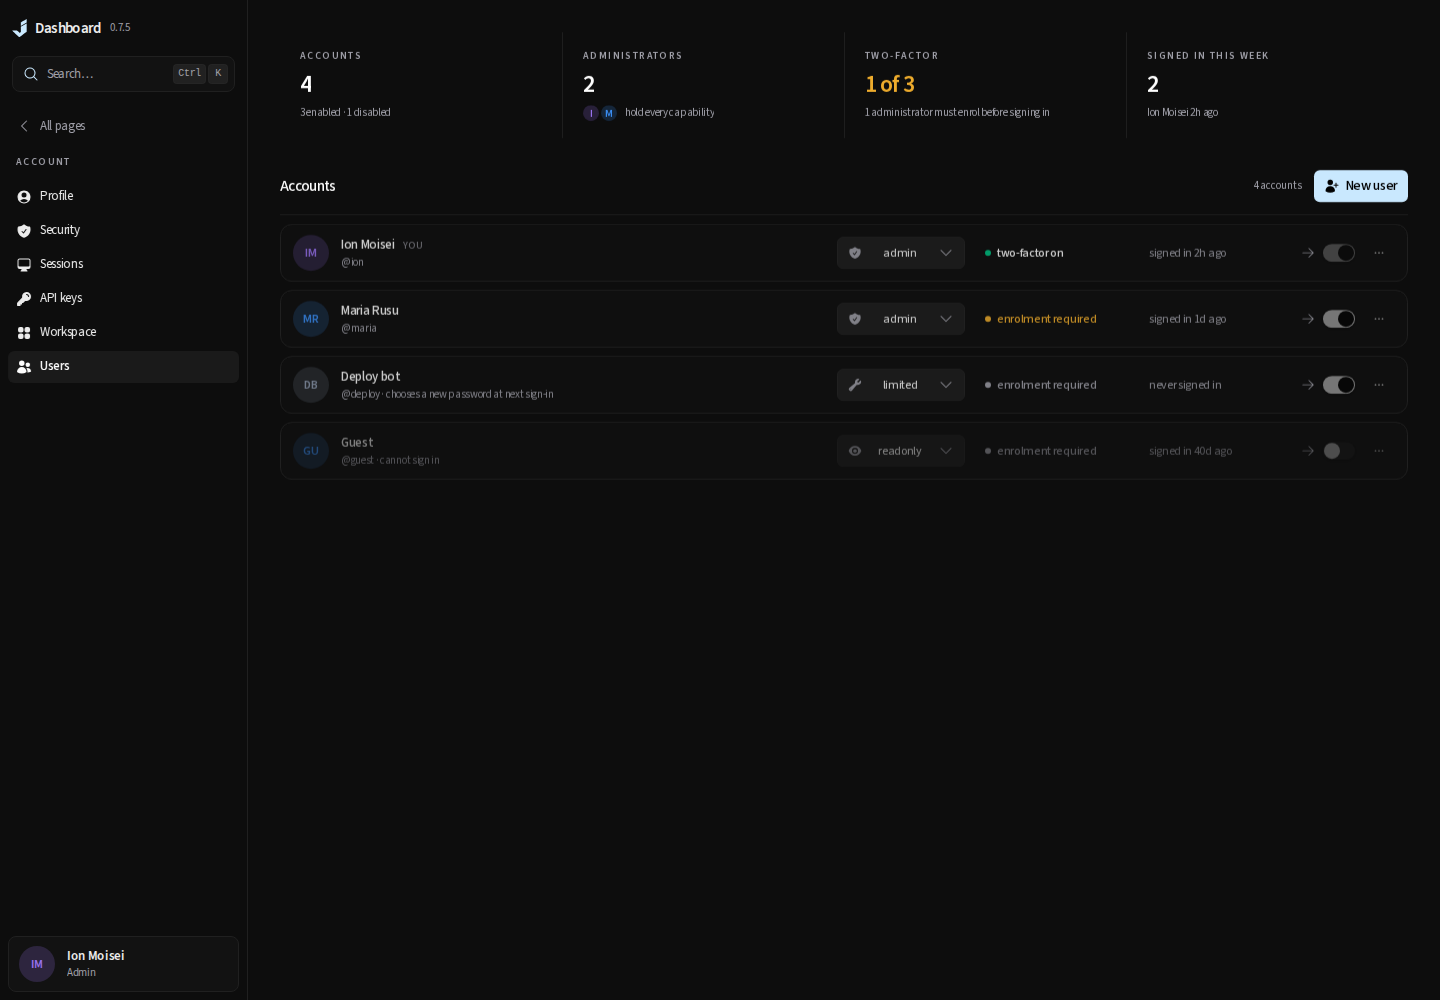
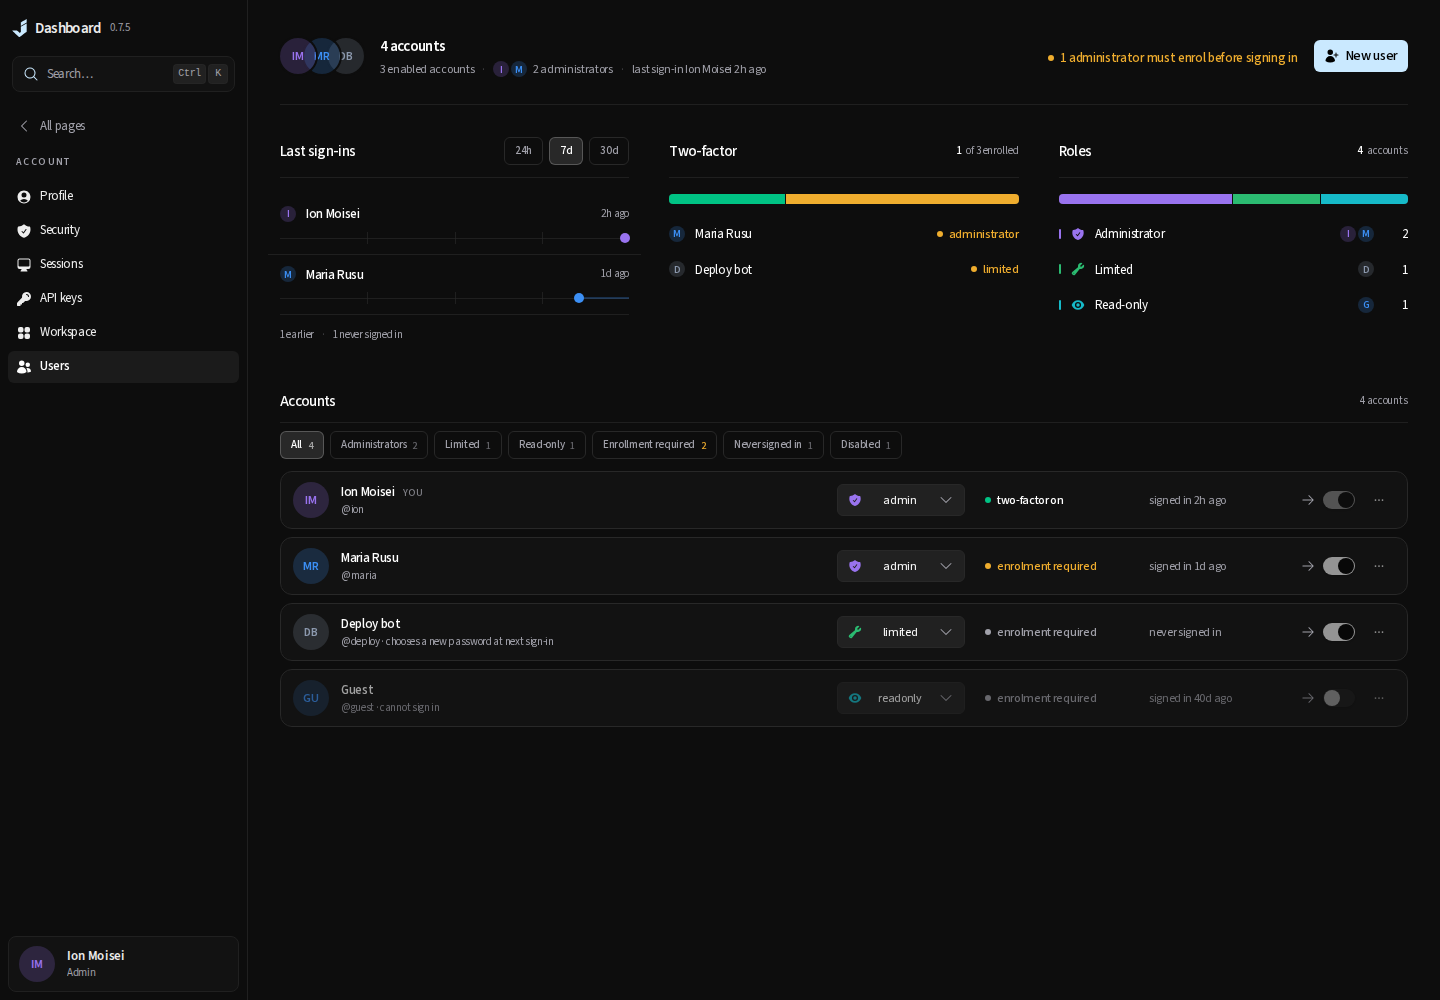
Record final audit validation and normalize touch target precision

diff --git a/frontend/tests/browser/command-search.spec.ts b/frontend/tests/browser/command-search.spec.ts
@@ -324,7 +324,10 @@ test("mobile results and controls fit inside the viewport", async ({ page }) => 
   expect(box.x + box.width).toBeLessThanOrEqual(390)
   expect(box.y + box.height).toBeLessThanOrEqual(844)
   for (const option of await palette(page).getByRole("listbox").getByRole("option").all()) {
-    expect((await option.boundingBox())!.height).toBeGreaterThanOrEqual(44)
+    // A settled transformed DOMRect can differ by floating-point noise;
+    // keep the 44px target at subpixel precision.
+    const height = (await option.boundingBox())!.height
+    expect(Number(height.toFixed(3))).toBeGreaterThanOrEqual(44)
   }
   // The preview needs the width a desk has; a phone keeps the whole width for the list.
   await expect(preview(page)).toBeHidden()

diff --git a/docs/audits/2026-10-14-current-non-network-fixes/README.md b/docs/audits/2026-10-14-current-non-network-fixes/README.md
@@ -8,7 +8,9 @@ the target branch and are recorded in [the earlier repair matrix](../2026-10-14-
 
 The task branch includes target `04f7f7af`, which already contains the T-01 auth-recovery test timing
 fix from PR #227. That test waits for the reload's session probe before asserting its count; it passed
-three focused repetitions during this follow-up.
+three focused repetitions during this follow-up. The task branch also integrates target `965fc96a`
+(PR #228's account-page design); required-factor readings follow that design without restoring its
+older tiles.
 
 Cross-review extended the same fixes to delayed image encoding/upload after account cleanup,
 temporary-upload cleanup after a native parent-directory replacement, and raw nginx validation
@@ -27,7 +29,7 @@ before validation or publication during the cleanup-to-remount interval.
 | N-03 | The image canvas loads one immutable binary snapshot with its revision. Overwriting requires that original revision; a conflict retains the transformed canvas for Save as or explicit reload. | Binary snapshot/upload tests, `files-ui.spec.ts` |
 | N-04 | Streamed exports, raw downloads and XHR uploads use the shared authentication-refusal observer while retaining streaming, upload progress and cancellation. | Response/XHR logic tests, database export and auth-recovery browser cases |
 | N-05 | The Security overview reports only measured fail2ban state. An absent, stopped or unreadable fail2ban no longer implies that every repeated-failure blocker is absent. | `security-ui.spec.ts`; before/after captures below |
-| N-06 | User readings, account cards and factor-reset guidance follow the required-2FA policy. Missing enrollment under that policy is described as required before sign-in. | `account-ui.spec.ts`; before/after captures below |
+| N-06 | User identity and coverage readings, cards, filters, factor-reset guidance and Profile/Security diagrams follow the required-2FA policy. Missing enrollment under that policy is described as required before completing sign-in; the diagram has no password-only bypass. | `account-ui.spec.ts`; before/after captures below |
 | N-07 | Raw proxy drafts survive same-document Back/Forward as well as shell navigation, with the original revision preserved across navigation and advanced only by save or explicit conflict review. | Draft logic tests, `proxy-engine-overview.spec.ts` |
 | N-08 | Backup metadata, sealed destination credentials and the revision publish in one database statement. A rejected publication leaves the previous job and credentials intact; credentials cannot publish separately from settings. | Fault-injection and cancellation tests in `internal/backups` |
 | P-01 | The backup form saves against its captured job revision and retains conflicting fields and credentials for explicit review. Pause/resume advances that revision. Deployment native-dump additions use a narrow, bounded compare-and-retry operation rather than overwriting an entire stale job. | Backup/store/API concurrency and migration tests, `backups-ui.spec.ts`, deployment settings regressions |
@@ -74,8 +76,10 @@ and its precise result are recorded below.
 
 ## Visual and interaction evidence
 
-The captures use deterministic API fixtures with a production frontend. They establish the displayed
-policy and editor behavior, rather than live host enforcement.
+The captures use deterministic API fixtures with a production frontend. Before captures reflect the
+original audit baseline; after captures reflect the final repaired tree, including the subsequently
+merged account-page design. They establish displayed policy and editor behavior, rather than live
+host enforcement.
 
 - Required-factor Users: [before](account-required-before.png), [after](account-required-after.png).
 - Fail2ban-specific Security reading: [before](security-fail2ban-before.png),
@@ -120,10 +124,24 @@ browser evidence was restarted from that build on loopback port 43227.
   cursor `fixme`. Active Redis cursor coverage remains in its owning browser suite.
 - The rebuilt account-boundary regressions passed all three cases: same-account draft retention,
   different-account remount and refusal to validate/save after working-state cleanup. The subsequent
-  changed-file gate and target-branch integration results are recorded before push.
+  `scripts/test-changed.sh 1555c049` gate passed all 145 browser cases, along with static checks
+  and all 3,606 Bun tests, before integrating the account-page redesign.
+- The final account-design integration passed Prettier, ESLint, TypeScript and all 3,616 Bun tests;
+  all 146 selected browser cases passed with `scripts/test-changed.sh b228d74b`, including required/
+  optional policy, diagrams, authentication and navigation. The final enabled-only coverage caption
+  also passed a direct disabled-account check on the final production build.
+- `scripts/test-changed.sh 329c3cdc` then passed 145 browser cases and failed one palette touch-target
+  assertion: Chromium reported 43.9999847412 pixels for a settled 44-pixel row. The assertion now
+  rounds to 0.001 CSS-pixel precision, retaining the 44-pixel requirement and still refusing 43.99.
+  `scripts/test-changed.sh 7e5e6b68` passed all 15 palette cases, static checks and all 3,616 Bun tests;
+  the originally failing case also passed three focused repetitions. The original failed run is
+  retained separately from these passing corrections.
+- The final documentation review checked 154 local links with no missing destinations and parsed
+  changed JSON successfully. `git diff --check` passed. The target remained `965fc96a` before push.
 
 ## Documentation review
 
 The owning board, file, proxy, backup, deployment, authentication and observability documents are
 updated in this change. The pre-push review compares the complete diff with `docs/internal/`,
-`AGENTS.md`, `README.md` and `CONTRIBUTING.md`; its result is recorded with final verification.
+`AGENTS.md`, `README.md` and `CONTRIBUTING.md`. [The pre-push review](pre-push-review.md) records
+those updates, the unchanged contributor/installation contracts and the preserved security boundaries.

diff --git a/docs/audits/2026-10-14-current-non-network-fixes/pre-push-review.md b/docs/audits/2026-10-14-current-non-network-fixes/pre-push-review.md
@@ -14,7 +14,9 @@ The complete change was compared with `docs/internal/`, `AGENTS.md`, `README.md`
 - Authentication/data guidance covers untouched successful streams, shared refusal observation,
   XHR progress/cancellation, late image-save cleanup, account-keyed workspace remounts and raw
   editor ownership checks before validation/publication. Account and observability guides describe
-  required-factor policy and fail2ban-specific evidence.
+  required-factor policy and fail2ban-specific evidence. The merged account design carries that policy
+  into its identity line, coverage band, filters, cards, reset guidance and Profile/Security diagrams,
+  while historical session proof remains unchanged.
 - The audit matrix preserves the nine original findings, the already-merged T-01 correction,
   before/after evidence, recovery recordings and all twelve operational limits. Its final verification
   records broad results and scoped corrections without presenting a failed run as green.
@@ -28,3 +30,8 @@ contracts. Backup schema changes are additive with a default through `store.adde
 migration is removed. Files and proxy operations keep path resolution and now pin temporary-file
 metadata/publication/cleanup to an approved directory. The existing proxy password-reader exclusion
 is retained through relative roots and aliases. No invariant is intentionally weakened.
+
+Final review also qualified complete factor coverage as applying to enabled accounts and recorded the
+palette DOMRect precision correction. Changed JSON parsed, all 154 changed-document local links
+resolved, and `git diff --check` passed. The final build and scoped passing rechecks are recorded in
+[the verification matrix](README.md). The target branch remained `965fc96a` before publication.
